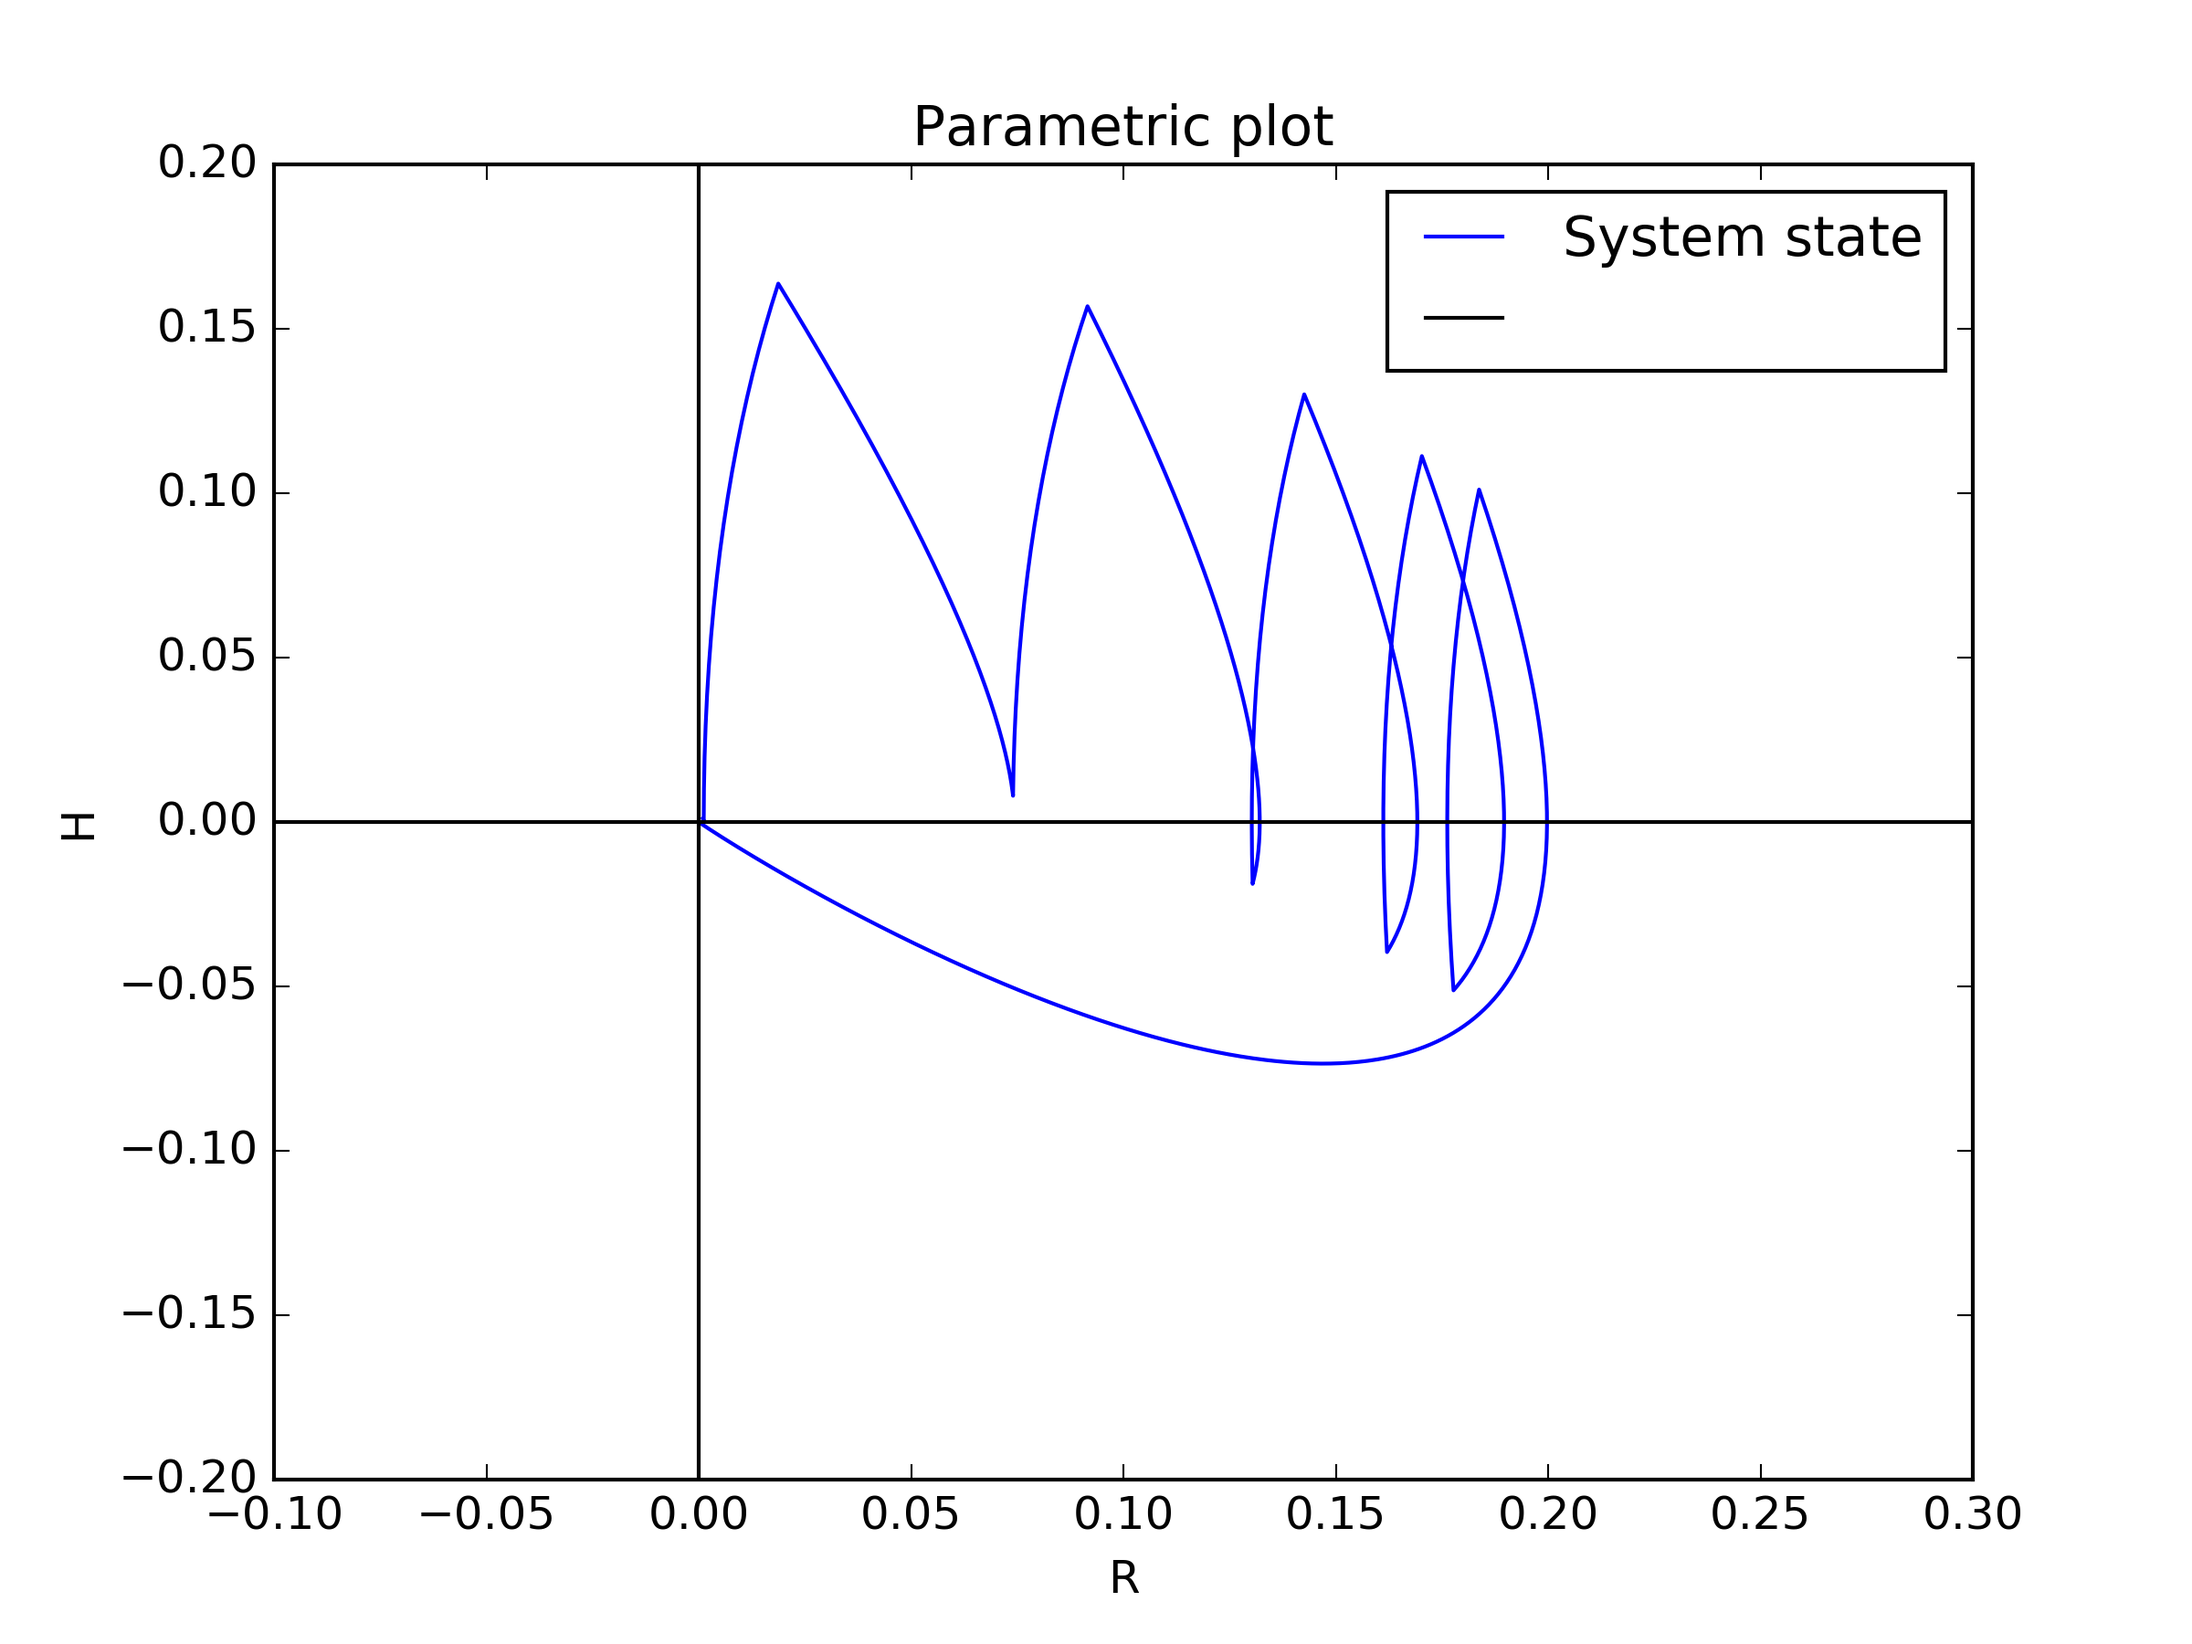
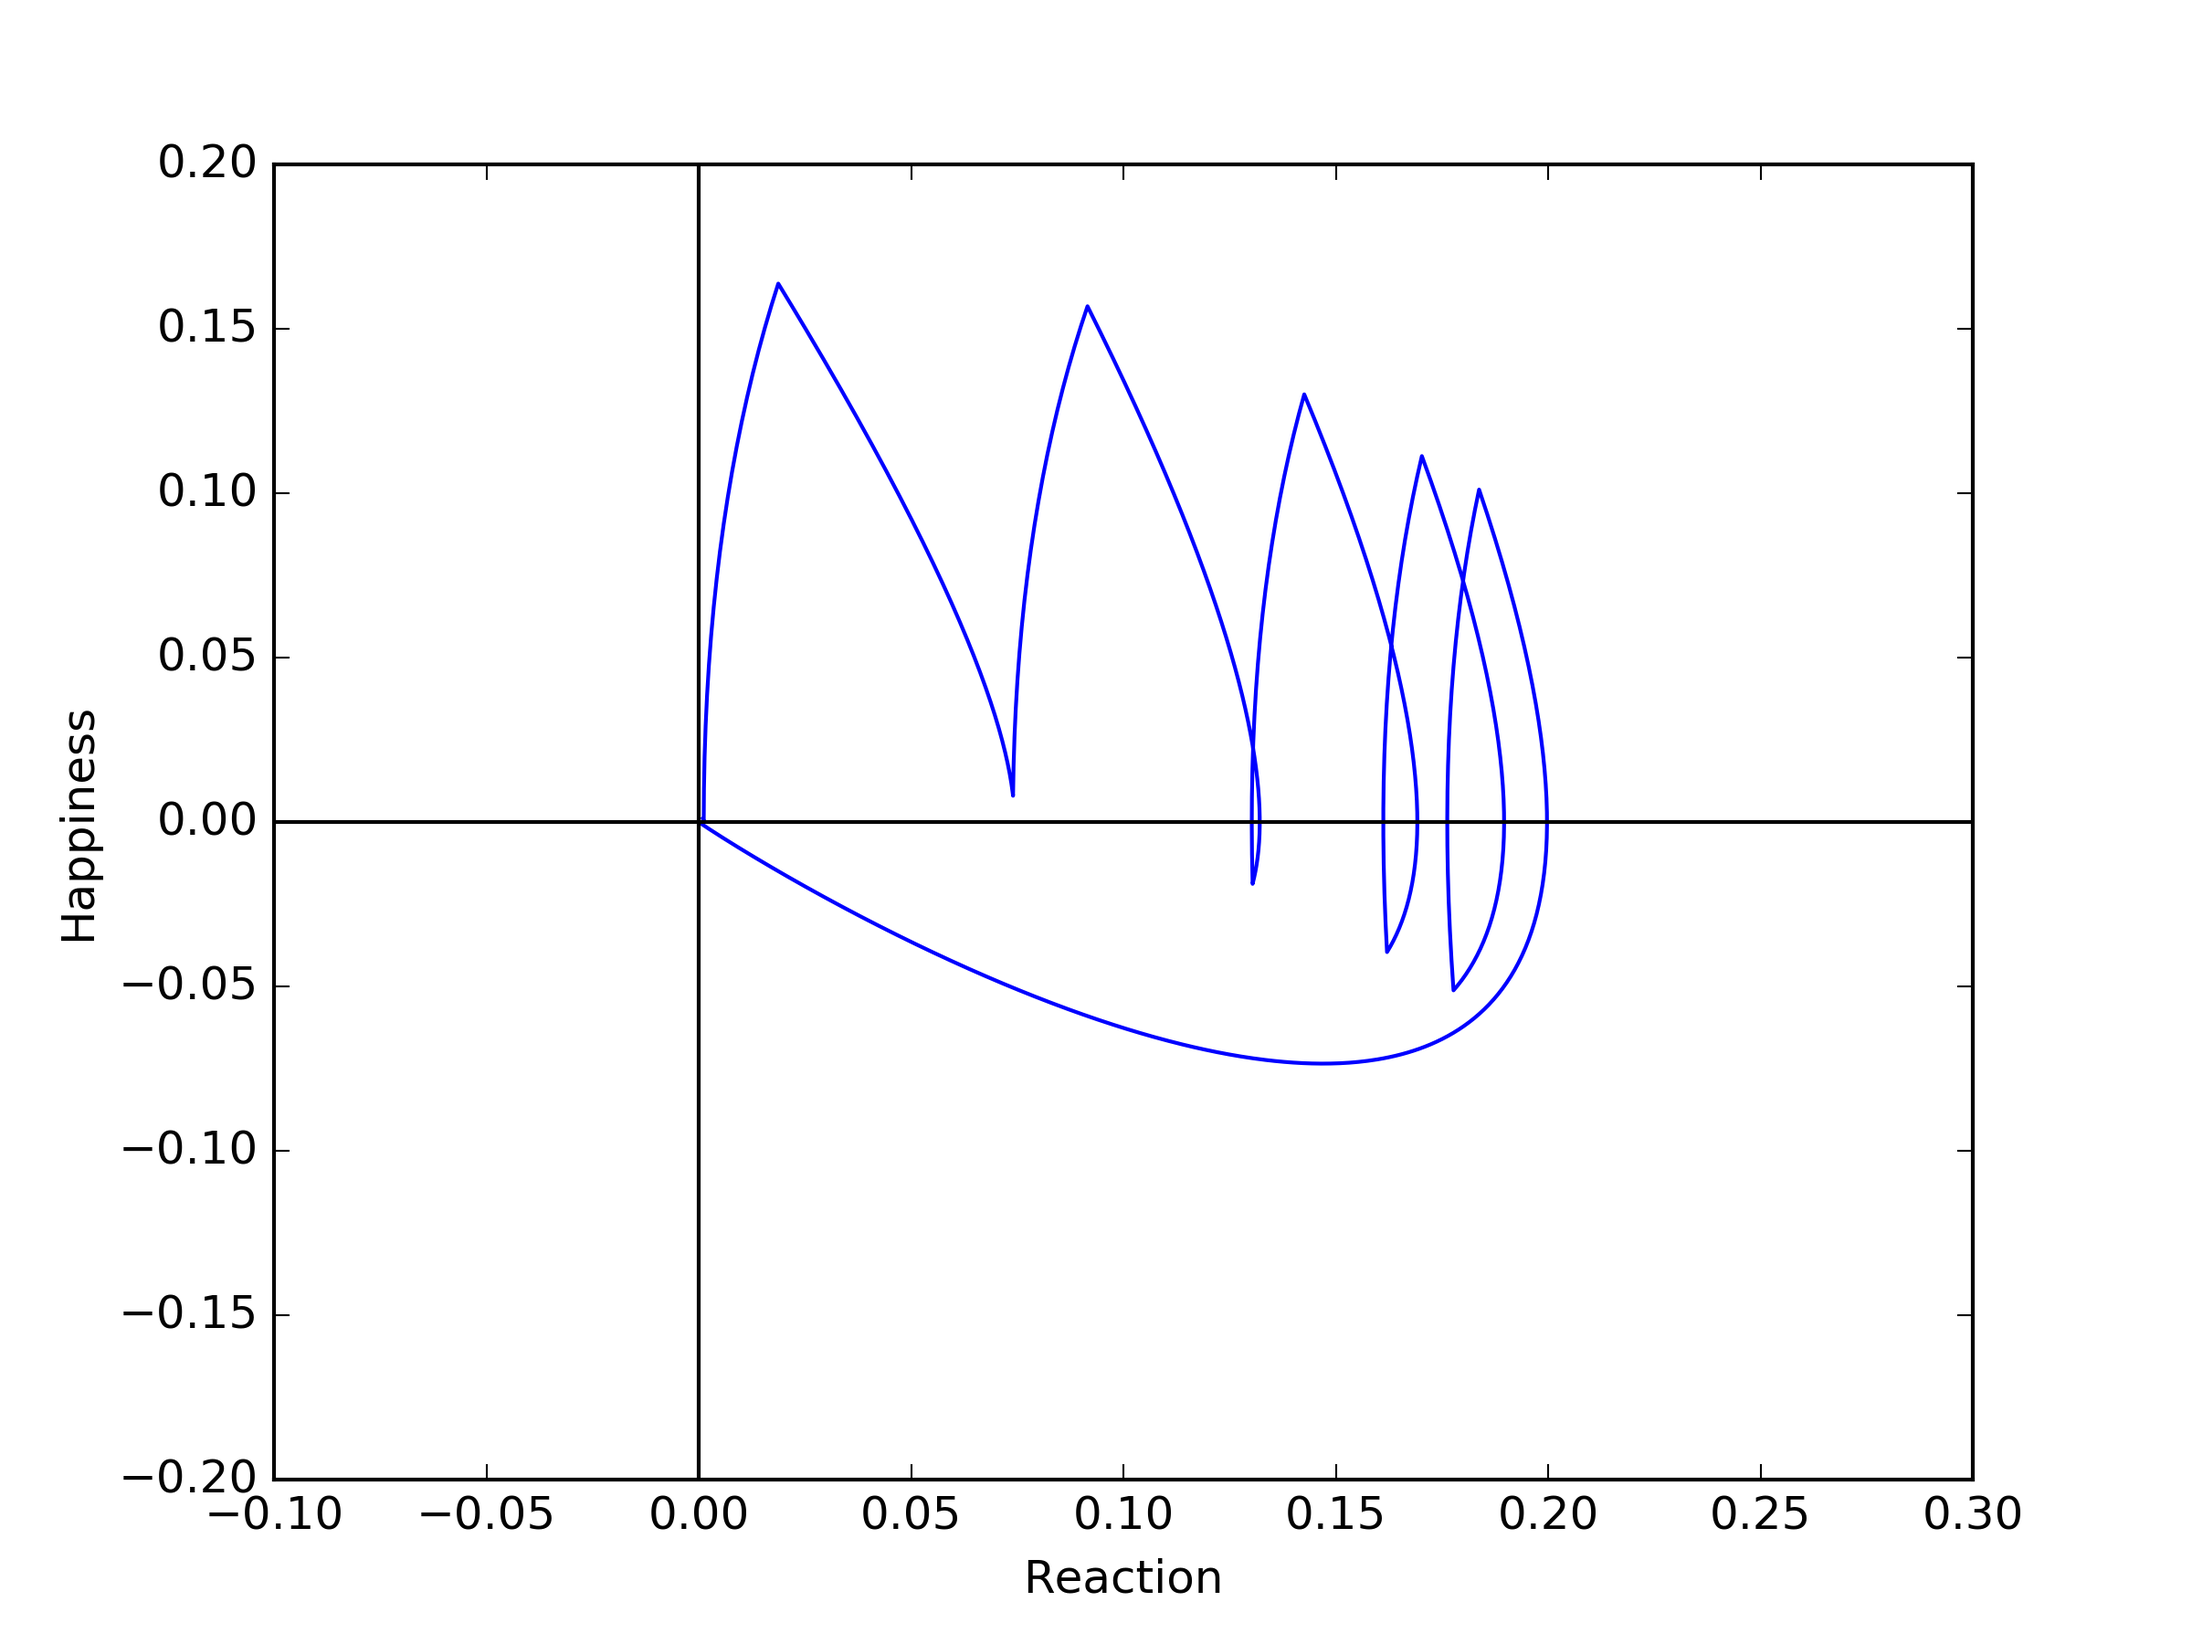
fixed labels

diff --git a/repetative.py b/repetative.py
@@ -37,7 +37,7 @@ p.axis([0, 15, -0.5, 0.5])
 p.xlabel('Time')
 p.legend(('Reaction', 'Happiness'))
 p.title('Reaction to a repetative positive event')
-# p.savefig('Repetative PositiveEvent.png', dpi=300)  #  uncomment to save plots
+p.savefig('Repetative PositiveEvent.png', dpi=300)  #  uncomment to save plots
 p.show()
 
 p.figure()
@@ -47,7 +47,7 @@ p.axhline(0, color='black')
 p.axvline(0, color='black')
 p.xlabel('Reaction')
 p.ylabel('Happiness')
-# p.savefig('Repetative PositiveEvent Parametric.png', dpi=300)  #  uncomment to save plots
+p.savefig('Repetative PositiveEvent Parametric.png', dpi=300)  #  uncomment to save plots
 p.show()
 
 p.figure()
@@ -64,7 +64,7 @@ while i < len(t)-20:
     ax.add_patch(arr)
     arr.set_facecolor('r')
     i += 20
-# p.savefig('Repetative PositiveEvent Parametric Arrow.png', dpi=300)  #  uncomment to save plots
+p.savefig('Repetative PositiveEvent Parametric Arrow.png', dpi=300)  #  uncomment to save plots
 p.show()
 
 

diff --git a/single.py b/single.py
@@ -37,7 +37,7 @@ p.axis([0, 15, -0.2, 0.2])
 p.xlabel('Time')
 p.legend(('Reaction', 'Happiness'))
 p.title('Reaction to a single positive event')
-# p.savefig('Single PositiveEvent.png', dpi=300)  #  uncomment to save plots
+p.savefig('Single PositiveEvent.png', dpi=300)  #  uncomment to save plots
 p.show()
 
 p.figure()
@@ -47,7 +47,7 @@ p.axhline(0, color='black')
 p.axvline(0, color='black')
 p.xlabel('Reaction')
 p.ylabel('Happiness')
-# p.savefig('Single PossitiveEvent Parametric.png', dpi=300)  #  uncomment to save plots
+p.savefig('Single PositiveEvent Parametric.png', dpi=300)  #  uncomment to save plots
 p.show()
 
 p.figure()
